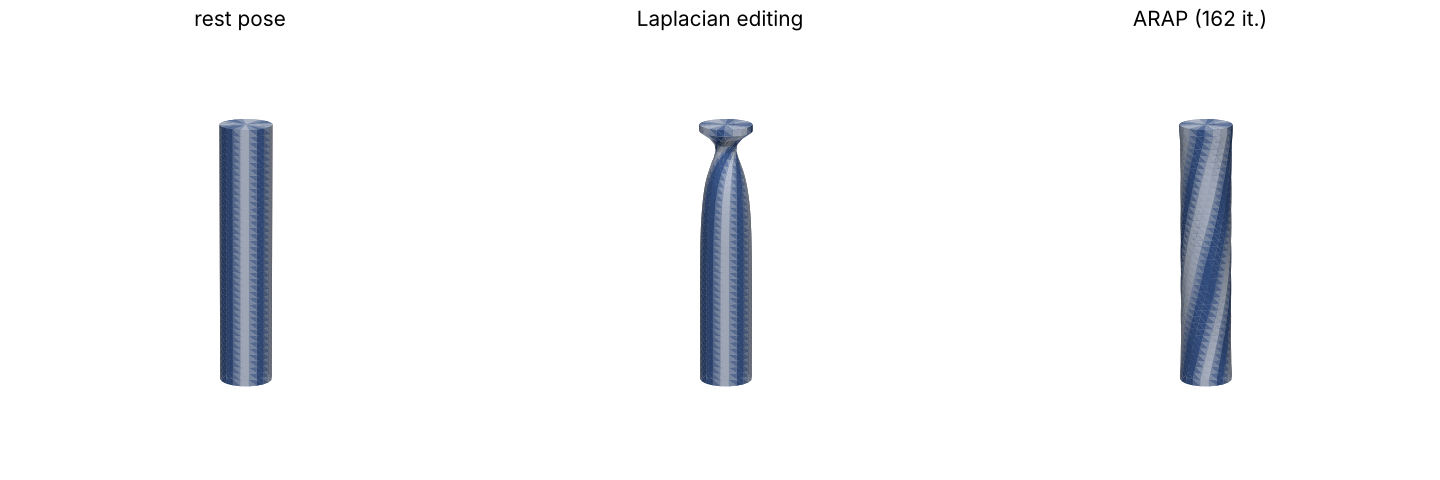
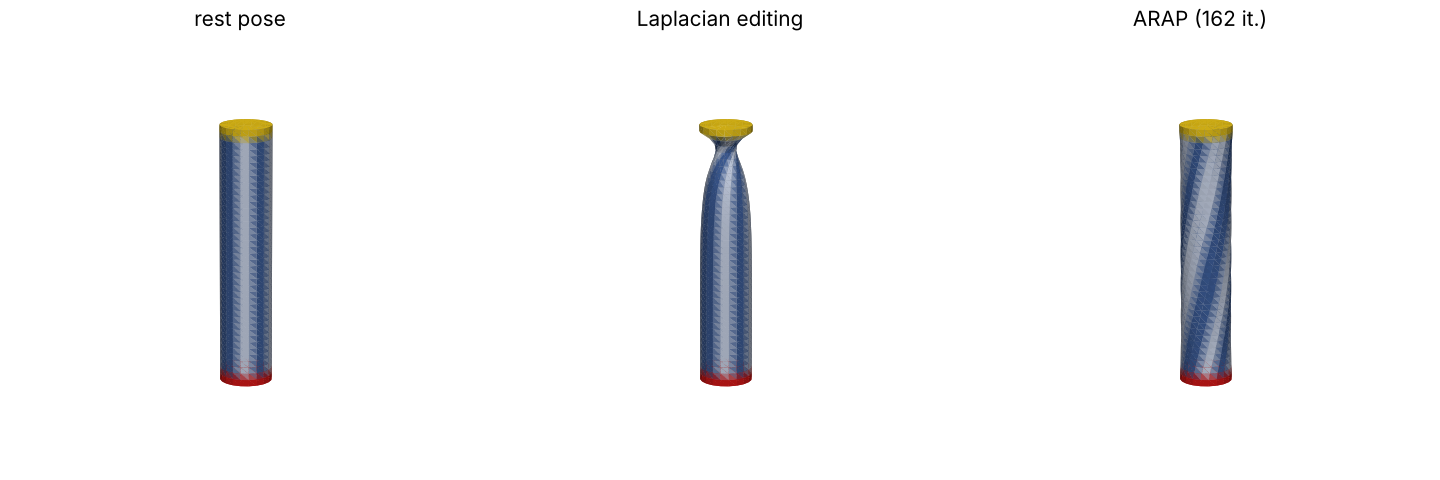
docs: refresh results and correct claims found in review
The tables and figures come from a new run with repeated timings. The
README now gives separate figures for the two inconsistent pairings,
describes the stopping rule as implemented, notes that the bar is not
normalised and that timings vary between runs on a shared machine, and
says where libigl is used beyond the tests.

diff --git a/README.md b/README.md
@@ -14,7 +14,7 @@ Python 3.10 or newer.
 python -m venv .venv
 source .venv/bin/activate
 pip install -r requirements.txt        # numpy, scipy, matplotlib
-pip install -r requirements-dev.txt    # adds pytest and libigl, only needed for the tests
+pip install -r requirements-dev.txt    # adds pytest, and libigl for the comparisons in the tests and experiments
 ```
 
 GeomProc is not on PyPI, so version 1.9 (commit `894415c` of
@@ -36,7 +36,7 @@ ears = sel.by_coordinate(V, "y", above=0.8)            # handle
 constrained, targets = sel.combine(V, fixed, ears, V[ears] + [-0.45, -0.15, 0.0])
 
 deformer = ARAPDeformer(V, F, constrained)             # factorises L once
-result = deformer.deform(targets)                      # Laplacian initial guess, then iterate
+result = deformer.deform(targets)                      # Laplacian guess, then iterate
 print(result.iterations, result.converged, result.energies[-1])
 save_mesh("output/bunny_arap.obj", result.vertices, F)
 ```
@@ -63,7 +63,7 @@ python -m pytest
 `output/` receives, for every scenario, the rest pose, the Laplacian editing
 result and the ARAP result as OBJ files with the constrained vertices coloured
 (fixed red, handles yellow) for viewing in MeshLab, plus the figures, the
-energy curve, `metrics.json` and `summary.md`. A full run takes about four
+energy curve, `metrics.json` and `summary.md`. A full run takes about five
 minutes.
 
 ## Code layout
@@ -113,12 +113,15 @@ handles and fixed vertices prescribed. With the cotangent operator
 `Δ = -M^{-1} L` the per-vertex area factor cancels, so this is `L p' = L p`:
 naive Laplacian editing, which is also the global step with every `R_i = I`.
 This is the default initial guess, the same one used in the paper's Fig. 3.
-The thin-plate version from the slides, `Δ²d = 0` (solved as `L M^{-1} L d = 0`),
-is available as an alternative.
+The thin-plate version from the slides, `Δ²d = 0` (solved as
+`L M^{-1} L d = 0`), is available as an alternative.
 
-**Stopping rule.** Iterate until the relative energy decrease of an iteration
-is below `1e-6` and no vertex moved more than `1e-5` of the bounding-box
-diagonal, or the iteration limit is reached.
+**Stopping rule.** Iterate until the energy decrease of an iteration is below
+`1e-6` times the energy of the initial guess and no vertex moved more than
+`1e-5` of the bounding-box diagonal, or the iteration limit is reached. The
+decrease is compared with the initial energy, not the current one: when the
+constraints allow a rigid motion the minimum energy is zero, and a decrease
+relative to the current energy then never becomes small.
 
 ## Design decisions
 
@@ -137,21 +140,25 @@ GeomProc's own matrix give the same deformation.
 consistently. Scaling a row of `L` changes the solution unless the same row of
 `b` is scaled by the same factor. With `L_gp` the right-hand side must be
 `b_i = sum_j L_gp[i, j] · 1/2 (R_i + R_j)(p_j - p_i)`, and likewise for an
-area-weighted operator `M^{-1}(W - D)`. Pairing either with the paper's
-unscaled `b` moves vertices by 30 to 60 % of the bounding-box diagonal after a
-single step (consistency table below). The code uses the unscaled symmetric
-`L` with the unscaled `b`, and the tests check both scaled variants.
+area-weighted operator `M^{-1}(W - D)`. After a single step, pairing `L_gp`
+with the paper's unscaled `b` moves vertices by 34 % (bar) to 68 % (bunny) of
+the bounding-box diagonal, and pairing the area-weighted operator with it
+moves them by 11 % to 24 % (consistency table below; the area-weighted error
+also depends on the mesh's scale, since `M^{-1}` scales as one over length
+squared). The code uses the unscaled symmetric `L` with the unscaled `b`, and
+the tests and the experiments check that both scaled variants give the same
+answer when their `b` is scaled to match.
 
 **Negative cotangent weights are clamped to zero.** This is the one deviation
 from the paper. The scanned meshes have many obtuse triangles (12 % of the
 camel's edges have a negative weight). With negative weights the energy can
 become negative and the rest pose is no longer a minimum, so the iterations
-walk away from it even when no handle has moved: after 50 iterations the camel has drifted by 15 % of its
-diagonal (table below). Clamping makes the energy non-negative and the rest
-pose an exact fixed point. GeomProc's operator is also non-negative for the
-same reason (it replaces a negative cotangent by half the triangle area). The
-raw weights are still available with `clamp="none"`, which is what libigl
-uses, and the tests compare that setting against libigl.
+walk away from it even when no handle has moved: after 50 iterations the
+camel has drifted by 15 % of its diagonal (table below). Clamping makes the energy non-negative and the rest
+pose an exact fixed point. GeomProc's operator is also non-negative, because
+its mixed-area treatment replaces a negative cotangent by half the triangle
+area. The raw weights are still available with `clamp="none"`, which is what
+libigl uses, and the tests compare that setting against libigl.
 
 **Elimination instead of row replacement.** The class demos impose
 constraints by replacing rows of the matrix with identity rows. That gives the
@@ -160,26 +167,32 @@ system symmetric positive definite.
 
 ## Results
 
-All numbers come from one run of `python -m experiments.run_all` (about four
-minutes) on a 4-core 2.1 GHz Xeon with Python 3.13, NumPy 2.5 and SciPy 1.18.
+All numbers come from one run of `python -m experiments.run_all` (under six
+minutes) on a shared 4-core 2.1 GHz Xeon virtual machine with Python 3.13,
+NumPy 2.5 and SciPy 1.18. On that machine timings vary by up to about 40 %
+between runs; every other number is the same from run to run.
 The full tables are in [docs/results.md](docs/results.md). Edge error is the
 RMS of the relative edge-length change `(|e'| - |e|) / |e|` over all edges;
-distances are divided by the bounding-box diagonal. Meshes are normalised
-with GeomProc so their longest side spans [-1, 1].
+distances are divided by the bounding-box diagonal. The loaded meshes are
+normalised with GeomProc so their longest side spans [-1, 1]; the synthetic
+bar (GeomProc's `create_cylinder`) has radius 0.1 and length 1. Timings are
+medians of repeated runs, and "ms per iteration" includes the energy and the
+convergence test.
 
 ### Deformations
 
 | scenario | vertices | constrained | iterations | within 1 % of final energy after | edge error, Laplacian editing | edge error, ARAP | ms per iteration |
 |---|---|---|---|---|---|---|---|
-| bar bend, 90° | 822 | 82 | 128 | 31 | 0.191 | 0.065 | 2.7 |
-| bar twist, 135° | 822 | 82 | 162 | 70 | 0.175 | 0.076 | 2.4 |
-| two-part cylinder hinge, 60° | 6 002 | 1 202 | 132 | 108 | 0.669 | 0.011 | 16 |
-| bunny ears | 2 503 | 881 | 155 | 22 | 0.068 | 0.036 | 7.5 |
-| kid raising its arms | 8 441 | 724 | 862 | 90 | 0.201 | 0.041 | 27 |
-| camel lowering its head | 9 770 | 3 381 | 797 | 96 | 0.100 | 0.017 | 31 |
+| bar bend, 90° | 822 | 82 | 128 | 31 | 0.191 | 0.065 | 3.2 |
+| bar twist, 135° | 822 | 82 | 162 | 70 | 0.175 | 0.076 | 3.8 |
+| two-part cylinder hinge, 60° | 6 002 | 1 202 | 132 | 108 | 0.669 | 0.011 | 23 |
+| bunny ears | 2 503 | 881 | 155 | 22 | 0.068 | 0.036 | 10 |
+| kid raising its arms | 8 441 | 724 | 862 | 90 | 0.201 | 0.041 | 38 |
+| camel lowering its head | 9 770 | 3 381 | 797 | 96 | 0.100 | 0.017 | 45 |
 
-Fixed vertices are red and handles yellow. Each row shows the rest pose,
-Laplacian editing (the initial guess) and the converged ARAP result.
+Fixed vertices are red and handles yellow (the twisted bar's other vertices
+are striped so the twist shows). Each row shows the rest pose, Laplacian
+editing (the initial guess) and the converged ARAP result.
 
 ![Twisted bar](docs/figures/bar_twist_comparison.png)
 ![Two-part cylinder used as a hinge](docs/figures/hinge_comparison.png)
@@ -193,8 +206,8 @@ Laplacian editing (the initial guess) and the converged ARAP result.
   stretch into thin strands, and the camel's body sinks while its legs bend.
   ARAP lowers the edge error by a factor of about 2 (bunny) to 60 (hinge).
 - **Rigid parts stay rigid.** In the hinge, the top block should turn as a
-  rigid body around the thin neck. Inside the block the edge error is 0.274
-  for Laplacian editing and 0.0002 for ARAP.
+  rigid body around the thin neck. Inside the block, leaving out the handle
+  itself, the edge error is 0.33 for Laplacian editing and 0.0002 for ARAP.
 - **Some stretch is unavoidable.** A bar of radius 0.1 bent into a quarter
   circle of radius 2/π ≈ 0.64 has to stretch by about 16 % on the outside of
   the bend and compress by as much on the inside, so no deformation that
@@ -213,32 +226,32 @@ little visible change.
 
 | vertices | setup (weights + factorisation) | local step | global step (sparse) | global step (dense, GeomProc operator) | building GeomProc's operator |
 |---|---|---|---|---|---|
-| 822 | 3 ms | 2.2 ms | 0.3 ms | 13 ms | 0.26 s |
-| 2 594 | 7 ms | 6.8 ms | 0.9 ms | 151 ms | 0.84 s |
-| 5 810 | 16 ms | 15 ms | 2.1 ms | 1 100 ms | 1.9 s |
-| 23 138 | 95 ms | 58 ms | 10 ms | not run | not run |
+| 822 | 4 ms | 2.8 ms | 0.4 ms | 13 ms | 0.34 s |
+| 2 594 | 9 ms | 8.1 ms | 1.2 ms | 181 ms | 1.1 s |
+| 5 810 | 19 ms | 18 ms | 2.7 ms | 1 180 ms | 2.5 s |
+| 23 138 | 101 ms | 74 ms | 13 ms | not run | not run |
 
 ![Dense against sparse solves](docs/figures/scaling_dense_vs_sparse.png)
 
 Times are for the bar bend on cylinders of increasing resolution. Each
 iteration is dominated by the local step (the covariances and the batched
-SVD). Because the factorisation is reused, the global step is five to eight
-times cheaper than the local step, and about 500 times cheaper than a dense
+SVD). Because the factorisation is reused, the global step is about six
+times cheaper than the local step, and about 400 times cheaper than a dense
 `numpy.linalg.solve` on GeomProc's matrix at 5 810 vertices. A full ARAP run
-on the 10 000-vertex camel takes about 25 seconds, most of it in the final
+on the 10 000-vertex camel takes about 36 seconds, most of it in the final
 creeping iterations.
 
 ### Negative cotangent weights
 
-| mesh | edges with a negative raw weight | drift after 50 iterations, raw weights | drift, clamped at zero |
-|---|---|---|---|
-| bunny | 7.2 % | 0.072 | 4e-14 |
-| camel | 11.9 % | 0.148 | 1e-13 |
-| kid | 5.2 % | 0.028 | 1e-13 |
+| mesh | edges with a negative raw weight | drift after 50 iterations, raw weights | same with libigl | drift, clamped at zero |
+|---|---|---|---|---|
+| bunny | 7.2 % | 0.072 | 0.072 | 4e-14 |
+| camel | 11.9 % | 0.148 | 0.148 | 1e-13 |
+| kid | 5.2 % | 0.028 | 0.028 | 1e-13 |
 
 No handle is moved in this test, so the rest pose is the correct answer. With
 raw weights the energy becomes negative and the surface drifts away from it.
-libigl, which uses raw weights, drifts in the same way.
+libigl, which uses raw weights, drifts by the same amount.
 
 ![Bunny drifting with raw weights](docs/figures/clamp_bunny_raw_drift.png)
 
@@ -274,27 +287,33 @@ iterations.
 
 ### Agreement with GeomProc and libigl
 
-Largest vertex difference, divided by the bounding-box diagonal.
+Largest distance between corresponding vertices, divided by the bounding-box
+diagonal.
 
-| scenario | membrane solve | one ARAP step | ten ARAP iterations | one step with an inconsistent `b` | libigl, ten iterations |
-|---|---|---|---|---|---|
-| bar bend | 7e-15 | 7e-15 | 2e-14 | 0.31 | 7e-6 |
-| bunny ears | 1e-15 | 1e-15 | 6e-15 | 0.64 | 4e-5 |
+| | bar bend | bunny ears |
+|---|---|---|
+| membrane solve, GeomProc operator | 7e-15 | 1e-15 |
+| one ARAP step, GeomProc operator, consistent `b` | 7e-15 | 2e-15 |
+| ten ARAP iterations, GeomProc operator | 2e-14 | 6e-15 |
+| one step, GeomProc operator, inconsistent `b` | **0.34** | **0.68** |
+| one step, area-weighted operator, consistent `b` | 2e-12 | 5e-13 |
+| one step, area-weighted operator, inconsistent `b` | **0.11** | **0.24** |
+| libigl, ten iterations, raw weights | 9e-6 | 6e-5 |
 
-The first three columns compare the sparse solver (with `clamp="geomproc"`)
+The GeomProc rows compare the sparse solver (with `clamp="geomproc"`)
 against dense solves on GeomProc's own `geometric_laplacian` with rows
-replaced for the constraints, as in the class demos. The fourth pairs
-GeomProc's row-normalised matrix with the paper's unscaled right-hand side,
-which is the inconsistency the handout warns about. The last column compares
-the raw-weight setting with libigl's ARAP (spokes energy, the paper's
-energy). libigl computes rotations in single precision, which explains the
-remaining difference.
+replaced for the constraints, as in the class demos. The area-weighted rows
+use `M^{-1}(W - D)` with the mixed areas. "Inconsistent" pairs a row-scaled
+matrix with the paper's unscaled right-hand side, which is the mistake the
+handout warns about. The last row compares the raw-weight setting with
+libigl's ARAP (spokes energy, the paper's energy). libigl fits the rotations
+in single precision, which most likely explains the remaining difference.
 
 ### Limitations
 
 - The constraints are hard, and the set of constrained vertices is fixed
   when the solver is created. A new set means a new factorisation, which
-  takes under 0.1 s here.
+  takes about 0.1 s or less here.
 - Convergence is linear, so a tight tolerance costs many iterations on large
   meshes. The paper's interactive setting runs only a few iterations per
   frame.
@@ -316,5 +335,8 @@ remaining difference.
 - [NumPy](https://numpy.org/): arrays and the batched SVD.
 - [SciPy](https://scipy.org/): sparse matrices and the sparse LU factorisation.
 - [Matplotlib](https://matplotlib.org/): figures.
-- [libigl](https://libigl.github.io/) Python bindings: used only in the tests,
-  as an independent implementation to compare against.
+- [libigl](https://libigl.github.io/) Python bindings: an independent ARAP
+  implementation used only for comparison, in the tests and in two experiment
+  columns (rest-pose drift with raw weights, and the libigl column of the
+  agreement table). The `arap/` package does not use it; without it the tests
+  that need it are skipped and those columns are left empty.

diff --git a/docs/results.md b/docs/results.md
@@ -1,19 +1,19 @@
 # Experiment summary
 
-Generated by `python -m experiments.run_all`. Edge error is the RMS of the relative edge-length change; distances are divided by the bounding-box diagonal. "Iterations to within 1%" counts the iterations until the energy is within 1% of its final value.
+Produced by `python -m experiments.run_all`. Edge error is the RMS of the relative edge-length change; distances are divided by the bounding-box diagonal. "Iterations to within 1%" counts the iterations until the energy is within 1% of its final value.
 
 ## Deformations
 
-| scenario | vertices | constrained | iterations | converged | iterations to within 1% | edge error Laplacian | edge error ARAP | setup (s) | ms / iteration |
-|---|---|---|---|---|---|---|---|---|---|
-| bar_bend | 822 | 82 | 128 | yes | 31 | 0.191 | 0.065 | 0.00675 | 2.7 |
-| bar_twist | 822 | 82 | 162 | yes | 70 | 0.175 | 0.0764 | 0.00393 | 2.42 |
-| hinge | 6002 | 1202 | 132 | yes | 108 | 0.669 | 0.011 | 0.0204 | 16.4 |
-| bunny_ears | 2503 | 881 | 155 | yes | 22 | 0.0679 | 0.0362 | 0.00933 | 7.5 |
-| kid_arms | 8441 | 724 | 862 | yes | 90 | 0.201 | 0.0406 | 0.0372 | 26.5 |
-| camel_drink | 9770 | 3381 | 797 | yes | 96 | 0.1 | 0.0168 | 0.0334 | 31.1 |
+| scenario | vertices | constrained | iterations | converged | energy never rose | iterations to within 1% | edge error Laplacian | edge error ARAP | setup (s) | ms / iteration |
+|---|---|---|---|---|---|---|---|---|---|---|
+| bar_bend | 822 | 82 | 128 | yes | yes | 31 | 0.191 | 0.065 | 0.00537 | 3.18 |
+| bar_twist | 822 | 82 | 162 | yes | yes | 70 | 0.175 | 0.0764 | 0.00475 | 3.79 |
+| hinge | 6002 | 1202 | 132 | yes | yes | 108 | 0.669 | 0.011 | 0.0239 | 23.4 |
+| bunny_ears | 2503 | 881 | 155 | yes | yes | 22 | 0.0679 | 0.0362 | 0.0107 | 10.4 |
+| kid_arms | 8441 | 724 | 862 | yes | yes | 90 | 0.201 | 0.0406 | 0.0453 | 37.5 |
+| camel_drink | 9770 | 3381 | 797 | yes | yes | 96 | 0.1 | 0.0168 | 0.0516 | 45.2 |
 
-Hinge, edge error inside the top block: Laplacian 0.274, ARAP 0.000183.
+Hinge, edge error inside the top block: Laplacian 0.331, ARAP 0.000221.
 
 ## Edge weights
 
@@ -26,48 +26,50 @@ Hinge, edge error inside the top block: Laplacian 0.274, ARAP 0.000183.
 
 ## Rest pose with no handle moved (50 iterations)
 
-| mesh | clamp | negative raw weights | max drift | lowest energy |
-|---|---|---|---|---|
-| bunny | none | 0.0715 | 0.0723 | -3.09 |
-| bunny | zero | 0.0715 | 4.28e-14 | 7.9e-28 |
-| bunny | geomproc | 0.0715 | 6.19e-14 | 9.1e-28 |
-| camel | none | 0.119 | 0.148 | -4.61 |
-| camel | zero | 0.119 | 1.38e-13 | 7.26e-27 |
-| camel | geomproc | 0.119 | 2.76e-13 | 1.36e-26 |
-| kid | none | 0.0517 | 0.0277 | -0.0704 |
-| kid | zero | 0.0517 | 1.39e-13 | 8.58e-28 |
-| kid | geomproc | 0.0517 | 9.2e-14 | 1.33e-27 |
+| mesh | clamp | negative raw weights | max drift | lowest energy | libigl max drift |
+|---|---|---|---|---|---|
+| bunny | none | 0.0715 | 0.0723 | -3.09 | 0.0723 |
+| bunny | zero | 0.0715 | 4.28e-14 | 7.9e-28 | - |
+| bunny | geomproc | 0.0715 | 6.19e-14 | 9.1e-28 | - |
+| camel | none | 0.119 | 0.148 | -4.61 | 0.148 |
+| camel | zero | 0.119 | 1.38e-13 | 7.26e-27 | - |
+| camel | geomproc | 0.119 | 2.76e-13 | 1.36e-26 | - |
+| kid | none | 0.0517 | 0.0277 | -0.0704 | 0.0277 |
+| kid | zero | 0.0517 | 1.39e-13 | 8.58e-28 | - |
+| kid | geomproc | 0.0517 | 9.2e-14 | 1.33e-27 | - |
 
 ## Initial guess
 
 | scenario | initial guess | iterations | iterations to within 1% | energy start | energy end | distance to Laplacian-start result | seconds |
 |---|---|---|---|---|---|---|---|
-| bar_bend | laplacian | 128 | 31 | 0.216 | 0.0156 | 0 | 0.346 |
-| bar_bend | thin_plate | 118 | 14 | 0.114 | 0.0156 | 0.000422 | 0.318 |
-| bar_bend | rest | 142 | 38 | 22.5 | 0.0156 | 5.02e-05 | 0.386 |
-| hinge | laplacian | 132 | 108 | 2.79 | 0.000599 | 0 | 2.51 |
-| hinge | thin_plate | 93 | 65 | 0.474 | 0.000596 | 0.000586 | 1.81 |
-| hinge | rest | 227 | 201 | 335 | 0.000598 | 0.000438 | 4.49 |
-| camel_drink | laplacian | 797 | 96 | 0.178 | 0.0102 | 0 | 27.8 |
-| camel_drink | thin_plate | 781 | 146 | 0.165 | 0.0102 | 0.000802 | 27.2 |
-| camel_drink | rest | 798 | 97 | 23.1 | 0.0102 | 2.78e-06 | 27.8 |
+| bar_bend | laplacian | 128 | 31 | 0.216 | 0.0156 | 0 | 0.409 |
+| bar_bend | thin_plate | 118 | 14 | 0.114 | 0.0156 | 0.000422 | 0.423 |
+| bar_bend | rest | 142 | 38 | 22.5 | 0.0156 | 5.02e-05 | 0.47 |
+| hinge | laplacian | 132 | 108 | 2.79 | 0.000599 | 0 | 3.5 |
+| hinge | thin_plate | 93 | 65 | 0.474 | 0.000596 | 0.000586 | 2.36 |
+| hinge | rest | 227 | 201 | 335 | 0.000598 | 0.000438 | 5.44 |
+| camel_drink | laplacian | 797 | 96 | 0.178 | 0.0102 | 0 | 34.3 |
+| camel_drink | thin_plate | 781 | 146 | 0.165 | 0.0102 | 0.000802 | 34.7 |
+| camel_drink | rest | 798 | 97 | 23.1 | 0.0102 | 2.78e-06 | 34.3 |
 
 ## Timing (bar bend, 20 iterations)
 
+Medians of repeated runs. The dense global step is one row-replaced `numpy.linalg.solve` with GeomProc's matrix, as in the class demos.
+
 | vertices | setup (s) | local step (ms) | global step (ms) | dense global step (ms) | GeomProc Laplacian build (s) |
 |---|---|---|---|---|---|
-| 302 | 0.00211 | 0.942 | 0.136 | 2.19 | 0.0944 |
-| 822 | 0.00332 | 2.23 | 0.295 | 13.2 | 0.261 |
-| 2594 | 0.00742 | 6.83 | 0.911 | 151 | 0.837 |
-| 5810 | 0.0158 | 15.1 | 2.08 | 1.1e+03 | 1.93 |
-| 10306 | 0.0299 | 26.7 | 4.17 | - | - |
-| 23138 | 0.0949 | 58.3 | 10.4 | - | - |
+| 302 | 0.00242 | 0.936 | 0.151 | 1.91 | 0.117 |
+| 822 | 0.00442 | 2.81 | 0.429 | 12.6 | 0.343 |
+| 2594 | 0.00948 | 8.06 | 1.23 | 181 | 1.05 |
+| 5810 | 0.0186 | 17.5 | 2.74 | 1.18e+03 | 2.54 |
+| 10306 | 0.0477 | 34.6 | 5.86 | - | - |
+| 23138 | 0.101 | 73.7 | 13.1 | - | - |
 
 ## Agreement with GeomProc's operator and with libigl
 
-Largest vertex difference divided by the bounding-box diagonal.
+Largest distance between corresponding vertices, divided by the bounding-box diagonal. The libigl column is empty when libigl is not installed.
 
-| scenario | membrane | one ARAP step | ten ARAP iterations | one step, inconsistent b | libigl, ten iterations |
-|---|---|---|---|---|---|
-| bar_bend | 6.8e-15 | 6.8e-15 | 1.7e-14 | 0.31 | 6.7e-06 |
-| bunny_ears | 1e-15 | 1.4e-15 | 5.5e-15 | 0.64 | 4.1e-05 |
+| scenario | membrane, GeomProc operator | one ARAP step, GeomProc operator | ten ARAP iterations, GeomProc operator | one step, GeomProc operator, inconsistent b | one step, area-weighted, consistent b | one step, area-weighted, inconsistent b | libigl, ten iterations |
+|---|---|---|---|---|---|---|---|
+| bar_bend | 7e-15 | 6.9e-15 | 2.1e-14 | 0.34 | 2.1e-12 | 0.11 | 9.2e-06 |
+| bunny_ears | 1.1e-15 | 1.5e-15 | 5.5e-15 | 0.68 | 4.5e-13 | 0.24 | 5.8e-05 |
